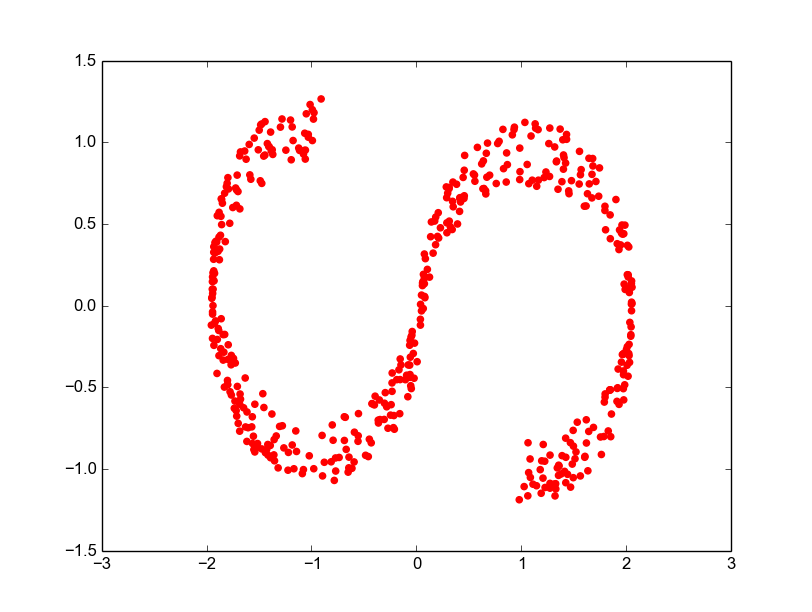
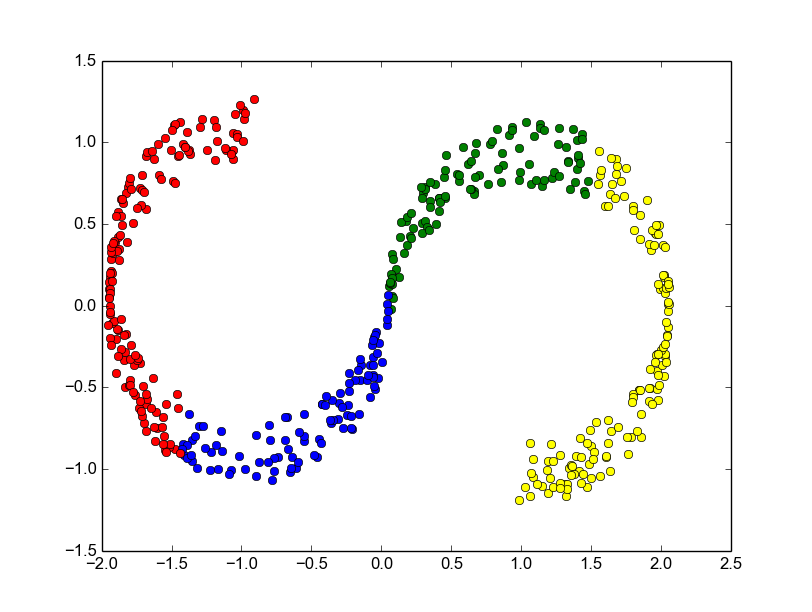
Finished PCA

diff --git a/homework2/3Ddata/threedata.py b/homework2/3Ddata/threedata.py
@@ -9,7 +9,6 @@ def loaddata(filename):
     with open(filename) as f:
         lines = f.readlines()
     lines = [i.split(' ') for i in lines]
-    #print(lines)
     #lines = [i.split('\n') for i in lines]
     for line in lines:
         line[-1] = line[-1].strip('\n')
@@ -17,14 +16,12 @@ def loaddata(filename):
     #lines = [float(x) for line in lines for x in line]
     lines=np.asarray(lines)
     lines=lines.astype(float)
-    #print(lines[:, -1])
     #for i, line in enumerate(lines):
         #lines[i][-1] = int(line[-1])
     return lines
 
 #Returns the mean vector of the dataset
 def getmeanvector(data):
-    #print(data[:, 0])
     mean_x = np.mean(data[:, 0])
     mean_y = np.mean(data[:, 1])
     mean_z = np.mean(data[:, 2])
@@ -33,7 +30,6 @@ def getmeanvector(data):
 
 #Returns the covariance matrix of the dataset
 def getcovarmatrix(data):
-    #print([data[:,0], data[:,1], data[:, 2]])
     cov_mat = np.cov([data[:,0], data[:,1], data[:, 2]])
     return cov_mat
 
@@ -45,8 +41,6 @@ def geteigens(matrix):
 #Sort eigenvectors in order of decreasing eigenvalue
 def sorteigens(eig_val, eig_vec):
     #Arrange pairs in tuple
-    #print(eig_val[1])
-    #print(eig_vec[:,1])
     eig_pairs = [(np.abs(eig_val[i]), eig_vec[:,i]) for i in range(len(eig_val))]
     #Sort pairs
     eig_pairs.sort(key=lambda x: x[0], reverse=True)
@@ -66,41 +60,39 @@ def projectdata(matrix, data):
 
 #First import the dataset
 data = loaddata("3Ddata.txt")
-#print(data)
 
 #Do PCA
 pca_mean = getmeanvector(data)
-#print(data)
-#print(pca_mean)
 data[:, 0] = data[:, 0] - pca_mean[0]
 data[:, 1] = data[:, 1] - pca_mean[1]
 data[:, 2] = data[:, 2] - pca_mean[2]
-#print(data)
 pca_covar = getcovarmatrix(data)
 eig_val_cov, eig_vec_cov = geteigens(pca_covar)
 eig_pairs = sorteigens(eig_val_cov, eig_vec_cov)
 eigen_matrix = geteigenmatrix(eig_pairs, 2)
 #Reorganize data
 reorganized_data = np.vstack((data[:,0], data[:,1],data[:,2]))
-#print(data)
-#print(reorganized_data)
+
 pca_output = projectdata(eigen_matrix, reorganized_data)
-#print(pca_output)
-#for i in eig_pairs:
-    #print(i[0])
-#print(data)
-#print(pca_mean)
-#print(pca_covar)
-#print(eig_val_cov)
-#print(eig_vec_cov)
-#print(eig_pairs)
-#print(eigen_matrix)
 
 #Plot PCA results
 
+#print(pca_output)
+#Tag points with appropriate color
+for i, point in enumerate(data):
+    #print(int(point[3]))
+    if(point[3] == 1):
+        plt.plot([pca_output[0,i]], [pca_output[1,i]], color="green", marker='o')
+    if(point[3] == 2):
+        plt.plot([pca_output[0,i]], [pca_output[1,i]], color="yellow", marker='o')
+    if(point[3] == 3):
+        plt.plot([pca_output[0,i]], [pca_output[1,i]], color="blue", marker='o')
+    if(point[3] == 4):
+        plt.plot([pca_output[0,i]], [pca_output[1,i]], color="red", marker='o')
+
 f = plt.figure(1)
 
-plt.scatter(pca_output[0], pca_output[1], color="red", marker='o')
+#plt.scatter(pca_output[0], pca_output[1], color="red", marker='o')
 
 """colors = cm.rainbow(np.linspace(0, 1, cluster_number))
 for x, c in zip(range(0, cluster_number), colors):
@@ -108,5 +100,6 @@ for x, c in zip(range(0, cluster_number), colors):
     plt.scatter([item[0] for item in organized_data[x]], [item[1] for item in organized_data[x]], color=c, marker='o', label=label_name)
 leg = plt.legend(loc=2, prop={'size':13}) #Might need to change this if dataset changes
 """
+
 f.show()
 f.savefig("pca_output.png")
